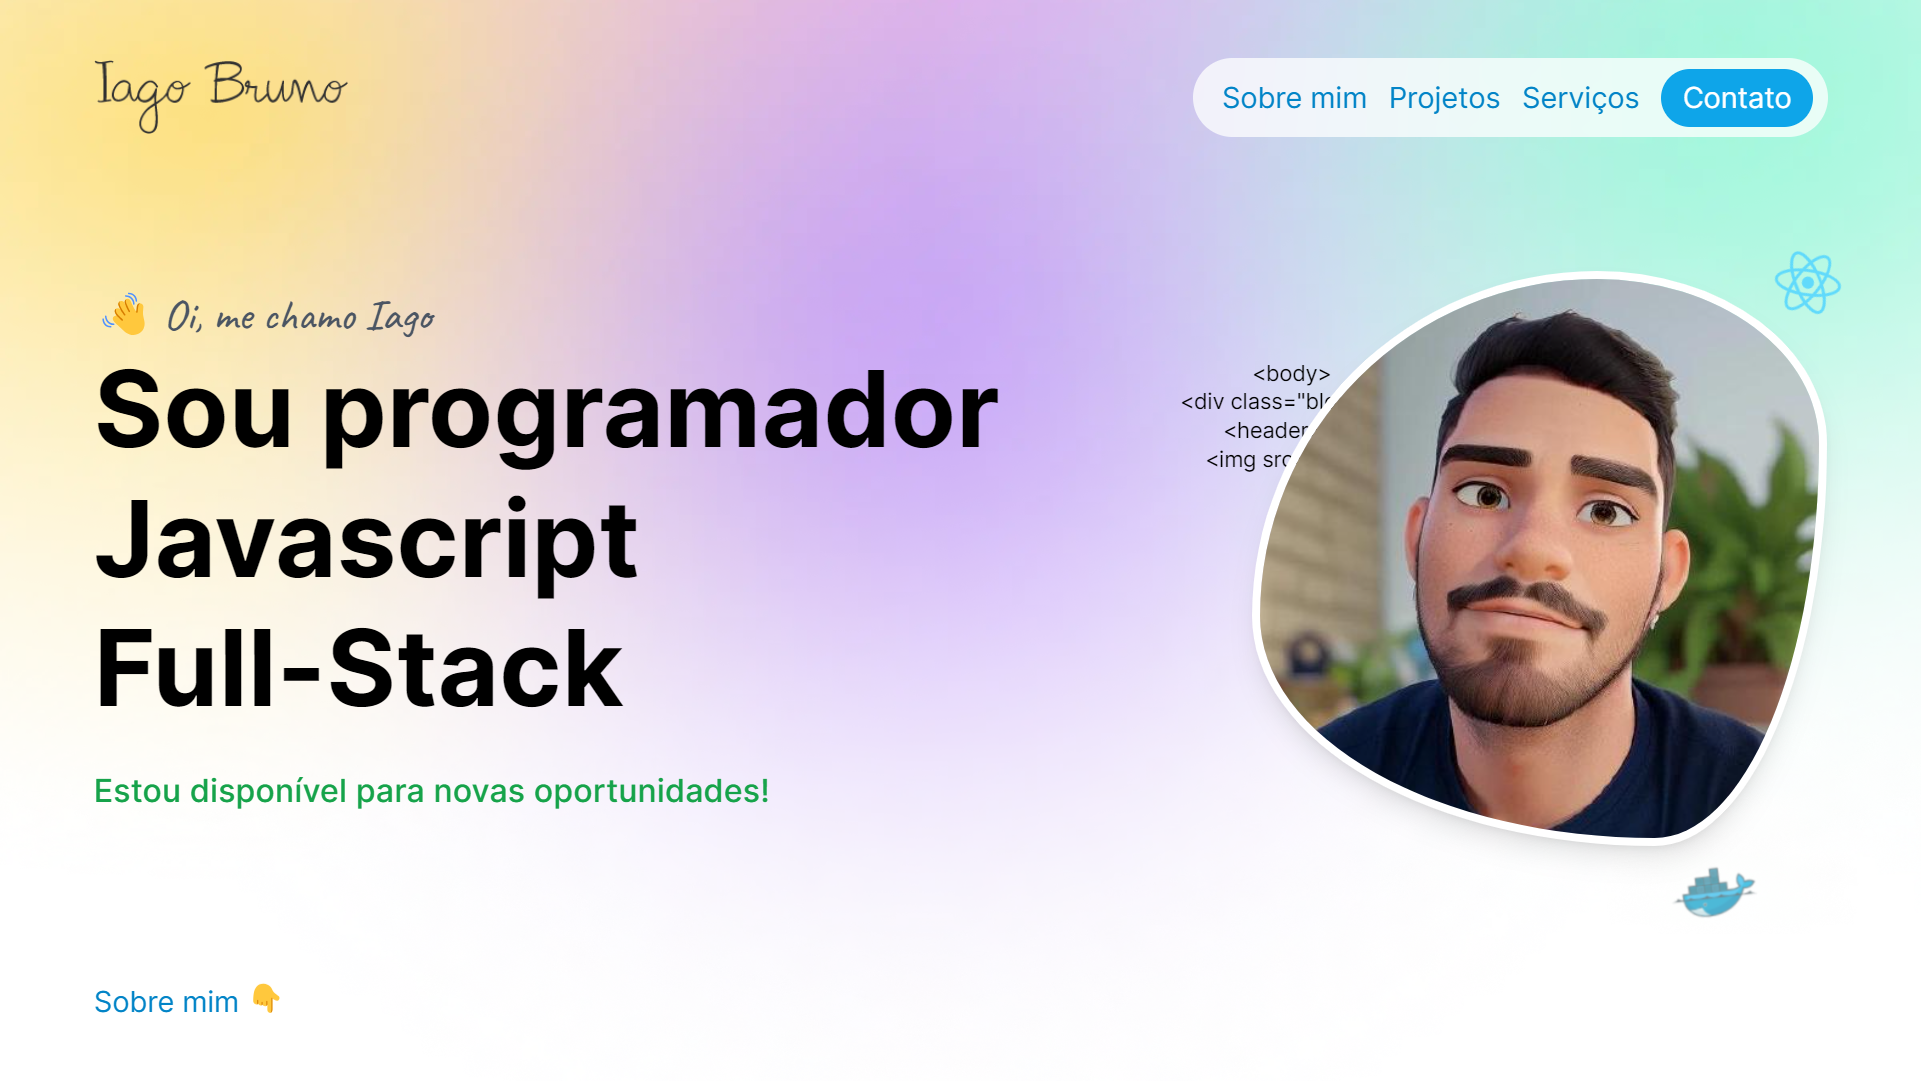
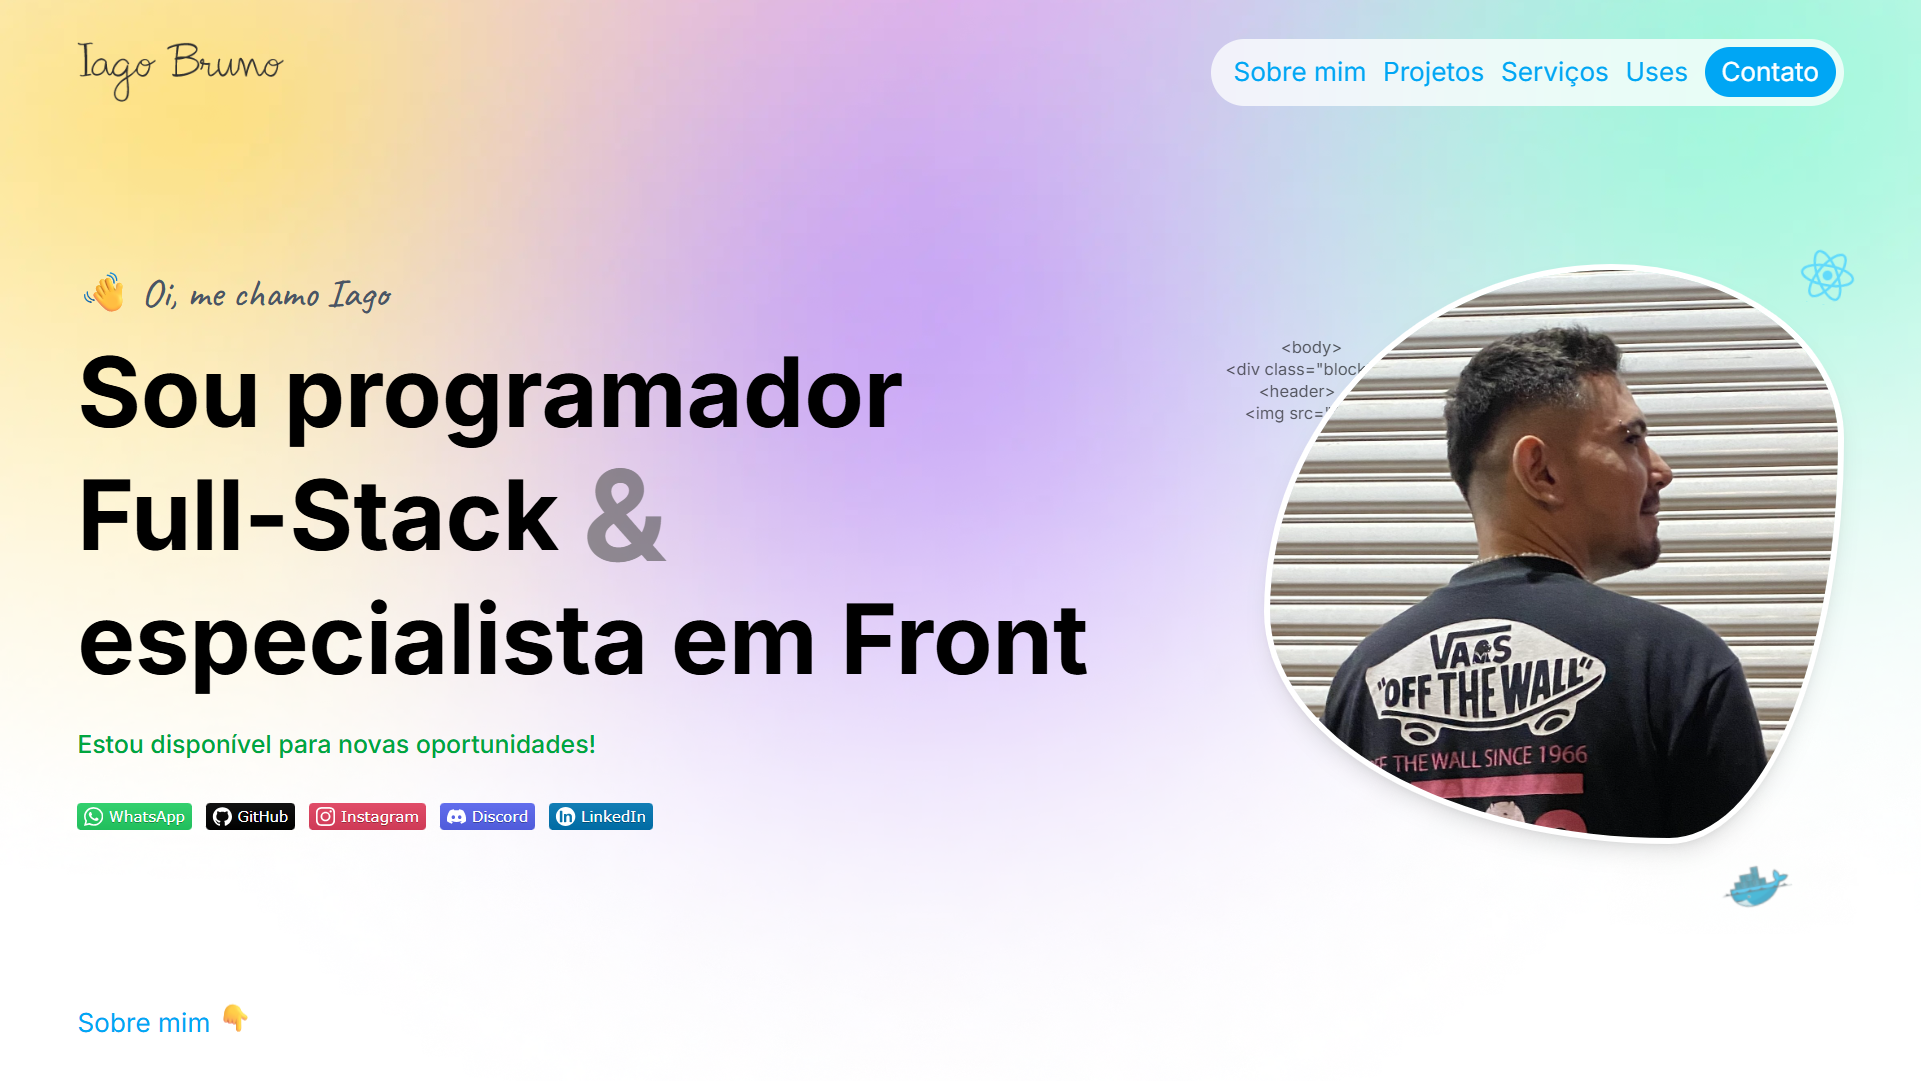
feat: Change og image

diff --git a/components/Hero.tsx b/components/Hero.tsx
@@ -27,7 +27,7 @@ export default function Hero({ compact = true, className }: HeroProps) {
                 </div>
                 <h2 className="font-bold text-[2.1rem]/[2.8rem] md:text-[3.7rem]/[4.5rem] xl:text-[4.4rem]/[5.6rem] text-wrap dark:text-gray-100 dark:drop-shadow-md">
                   Sou programador<br/>
-                  Full-Stack<span className="text-neutral-300/70 scale-130 ml-3.5 md:ml-6 inline-block">&</span><br/>
+                  Full-Stack<span className="text-neutral-600/60 dark:text-neutral-300/66 scale-135 ml-3.5 md:ml-6 inline-block">&</span><br/>
                   especialista em Front
                 </h2>
                 {/* <p className="font-medium text-lg/6 text-green-600 dark:text-green-500 mt-5">Estou disponível para novas oportunidades!</p> */}
@@ -59,10 +59,10 @@ function Photo() {
       <div className="hidden md:block pointer-events-none">
         <img src="https://cdn.jsdelivr.net/gh/devicons/devicon/icons/react/react-original.svg" width="40px" height="40px" className="absolute blur-[0px] -top-3 -right-2 animate-spin [animation-duration:10s]" />
         <img src="https://cdn.jsdelivr.net/gh/devicons/devicon/icons/docker/docker-original.svg" width="50px" height="50px" className="absolute blur-[0.45px] -bottom-13 right-10 opacity-70 animate-[whale_8s_linear_infinite]"/>
-        <div className="absolute top-[52px] -left-[34px] text-xs z-0 flex flex-col dark:text-gray-200">
-          <span className="ml-8">{'<body>'}</span>
-          <span className="-ml-2">{'<div class="block">'}</span>
-          <span className="ml-4">{'<header>'}</span>
+        <div className="absolute top-[52px] -left-[28px] text-xs z-0 flex flex-col dark:text-gray-200 not-dark:opacity-60">
+          <span className="ml-8.5">{'<body>'}</span>
+          <span className="-ml-2">{'<div class="card">'}</span>
+          <span className="ml-4.5">{'<header>'}</span>
           <span className="ml-1.5">{'<img src="">'}</span>
         </div>
       </div>
